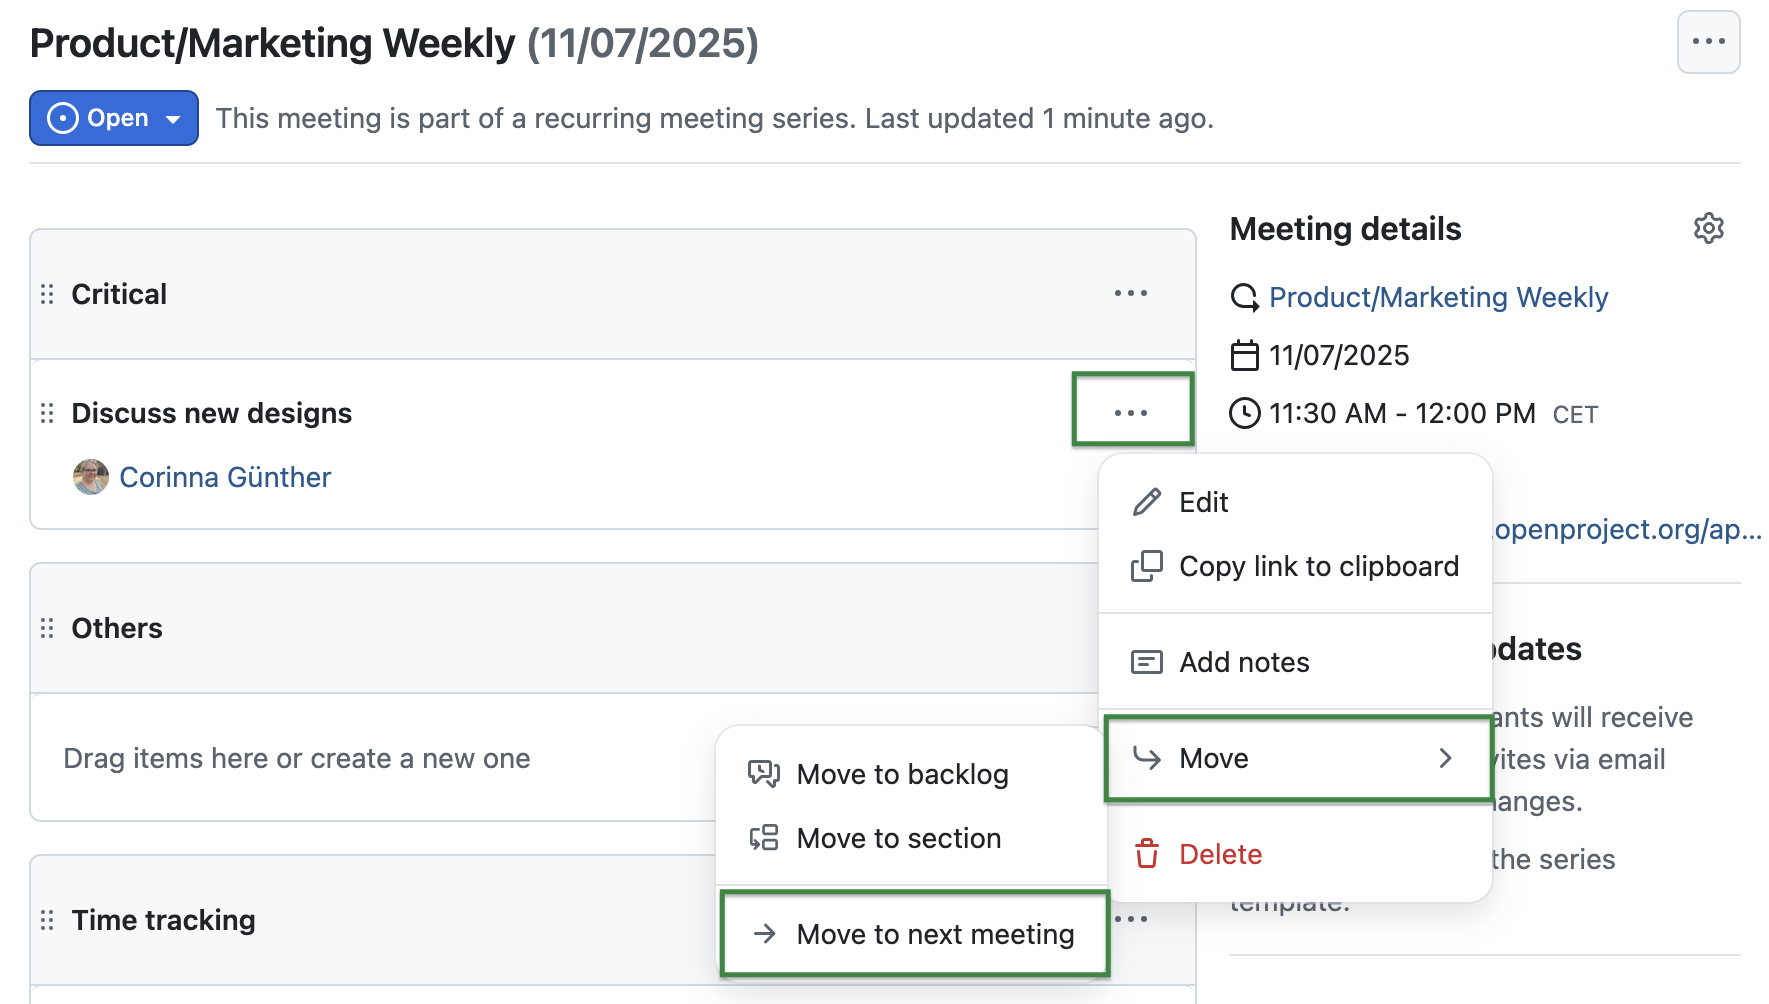
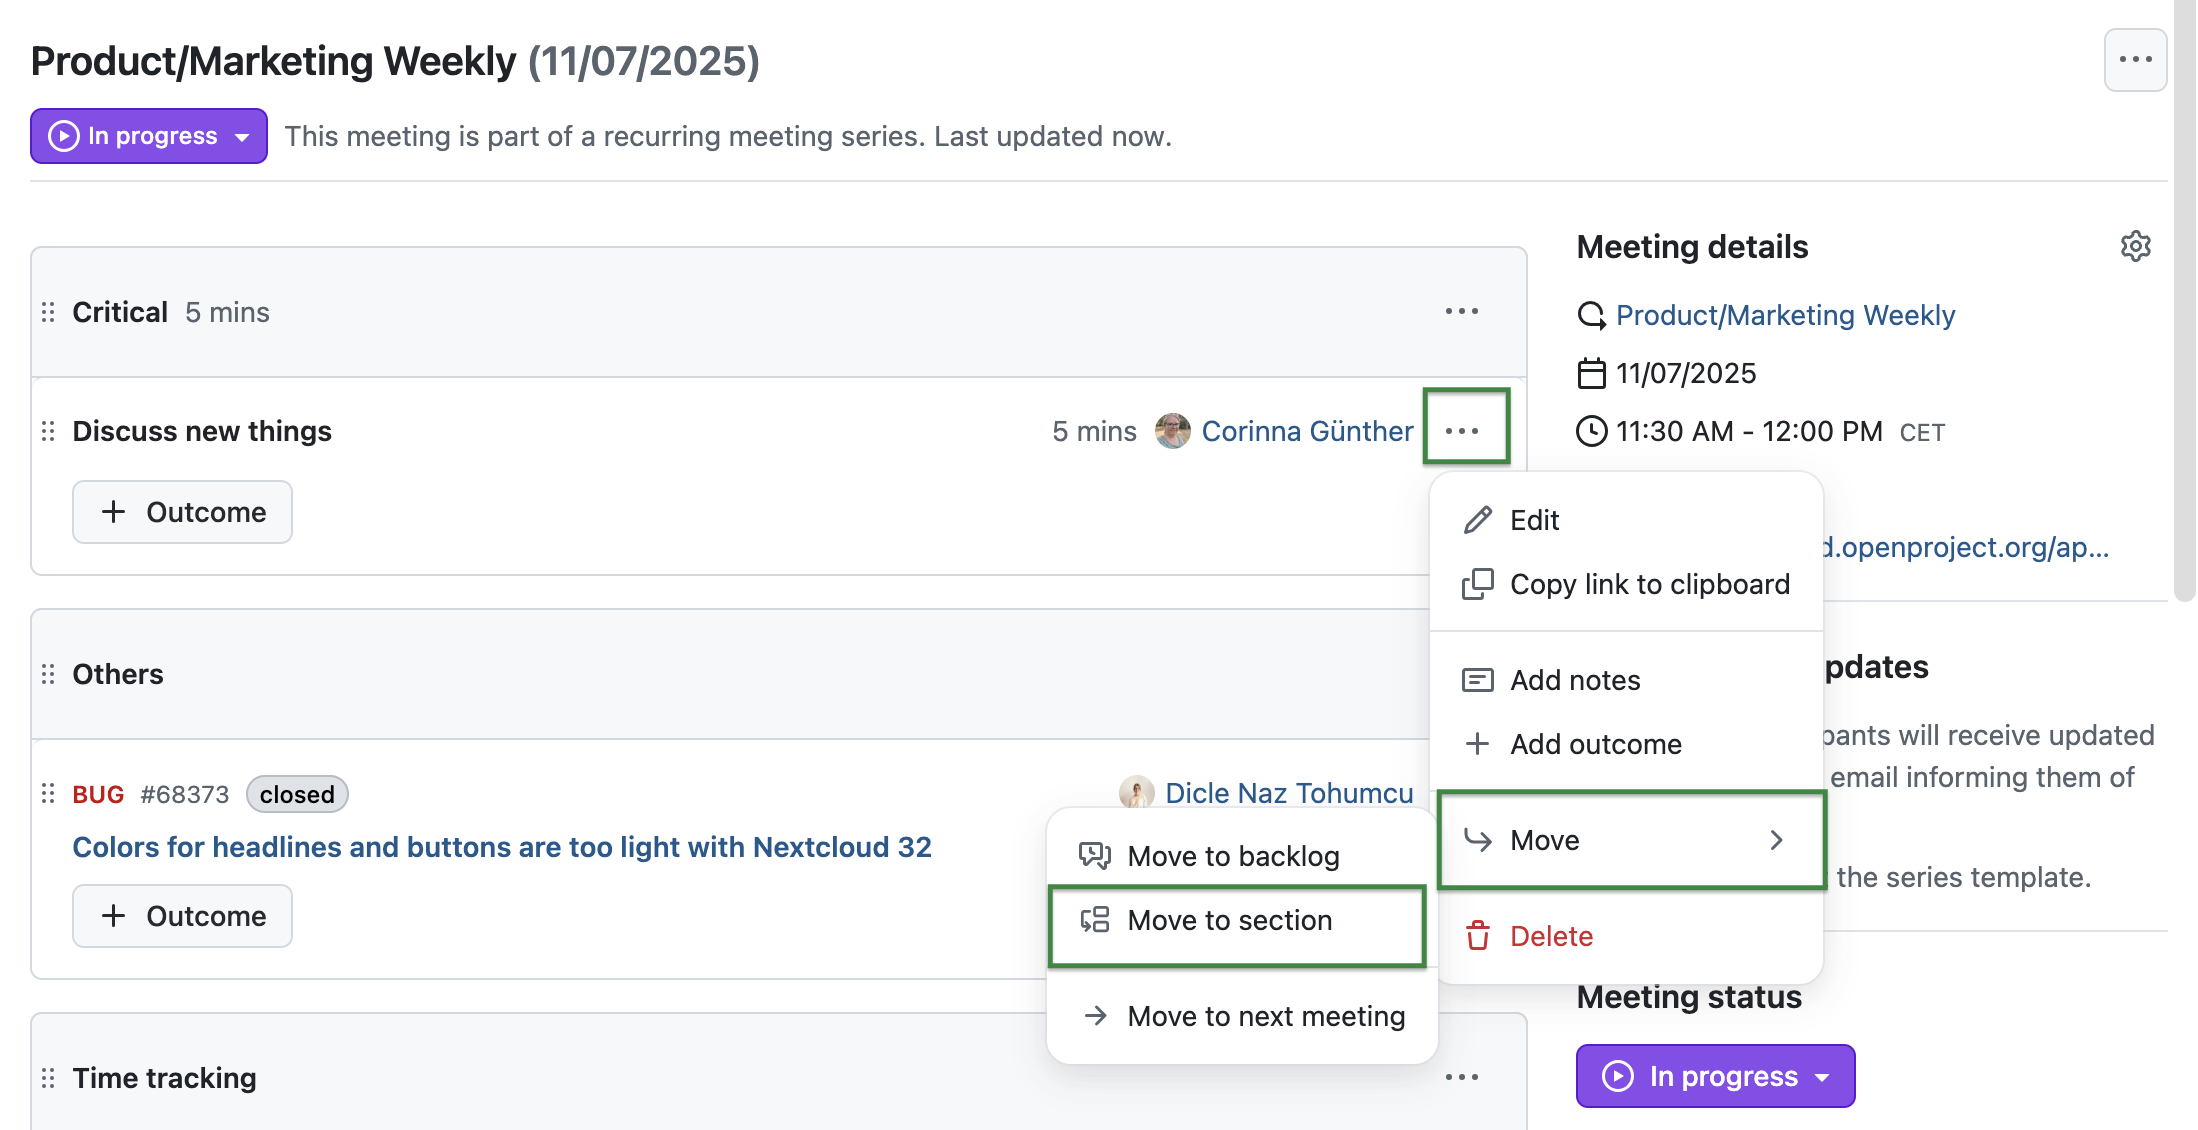
Update release notes (#20934)
* Update release notes

[#63122] 16.6 Release notes prepared

https://community.openproject.org/work_packages/63122

* Update meeting section

* Update README.md

Pull request: Update release notes
[#63122] 16.6 Release notes prepared

https://community.openproject.org/work_packages/63122

diff --git a/docs/release-notes/16-6-0/README.md b/docs/release-notes/16-6-0/README.md
@@ -67,7 +67,7 @@ To do so, administrators need to navigate to *Administration → Custom fields*,
 
 ![OpenProject 16.6: Custom field type hierarchy in the administration, tab 'Items', one item is selected with the 'More' menu and the option to change parent is higlighted](openproject-16-6-custom-field-hierarchy-change-parent.png)
 
-### Updated 'More' menu of meetings with an 'Add to section' option
+### Updated 'More' menu of meetings with a 'Move to section' option
 
 In the Meetings module, the *More (three dots) menu* for agenda items has been improved to make it easier to move items between sections. Moderators can now directly move an item to another section without manually reordering it step by step. 
 
@@ -181,7 +181,7 @@ Autoscaling can be configured through the Helm chart, allowing system administra
 
 ## Contributions
 
-A very special thank you goes to Helmholtz-Zentrum Berlin, City of Cologne, Deutsche Bahn and ZenDiS for sponsoring released or upcoming features. Your support, alongside the efforts of our amazing Community, helps drive these innovations. Also a big thanks to our Community members for reporting bugs and helping us identify and provide fixes. Special thanks for reporting and finding bugs go to Sven Kunze, Stefan Weiberg, Александр Татаринцев, Gábor Alexovics, Alexander Aleschenko, Tobias Nowakow.
+A very special thank you goes to Helmholtz-Zentrum Berlin, City of Cologne, Deutsche Bahn and ZenDiS for sponsoring released or upcoming features. Your support, alongside the efforts of our amazing Community, helps drive these innovations. Also a big thanks to our Community members for reporting bugs and helping us identify and provide fixes. Special thanks for reporting and finding bugs go to Sven Kunze, Stefan Weiberg, Gábor Alexovics, Alexander Aleschenko, Tobias Nowakow.
 
 This release, we specifically want to thank Emon for reporting a security vulnerability on our website. Reports and feedback like this are one of the reasons we love OSS and appreciate being part of such an amazing community.
 